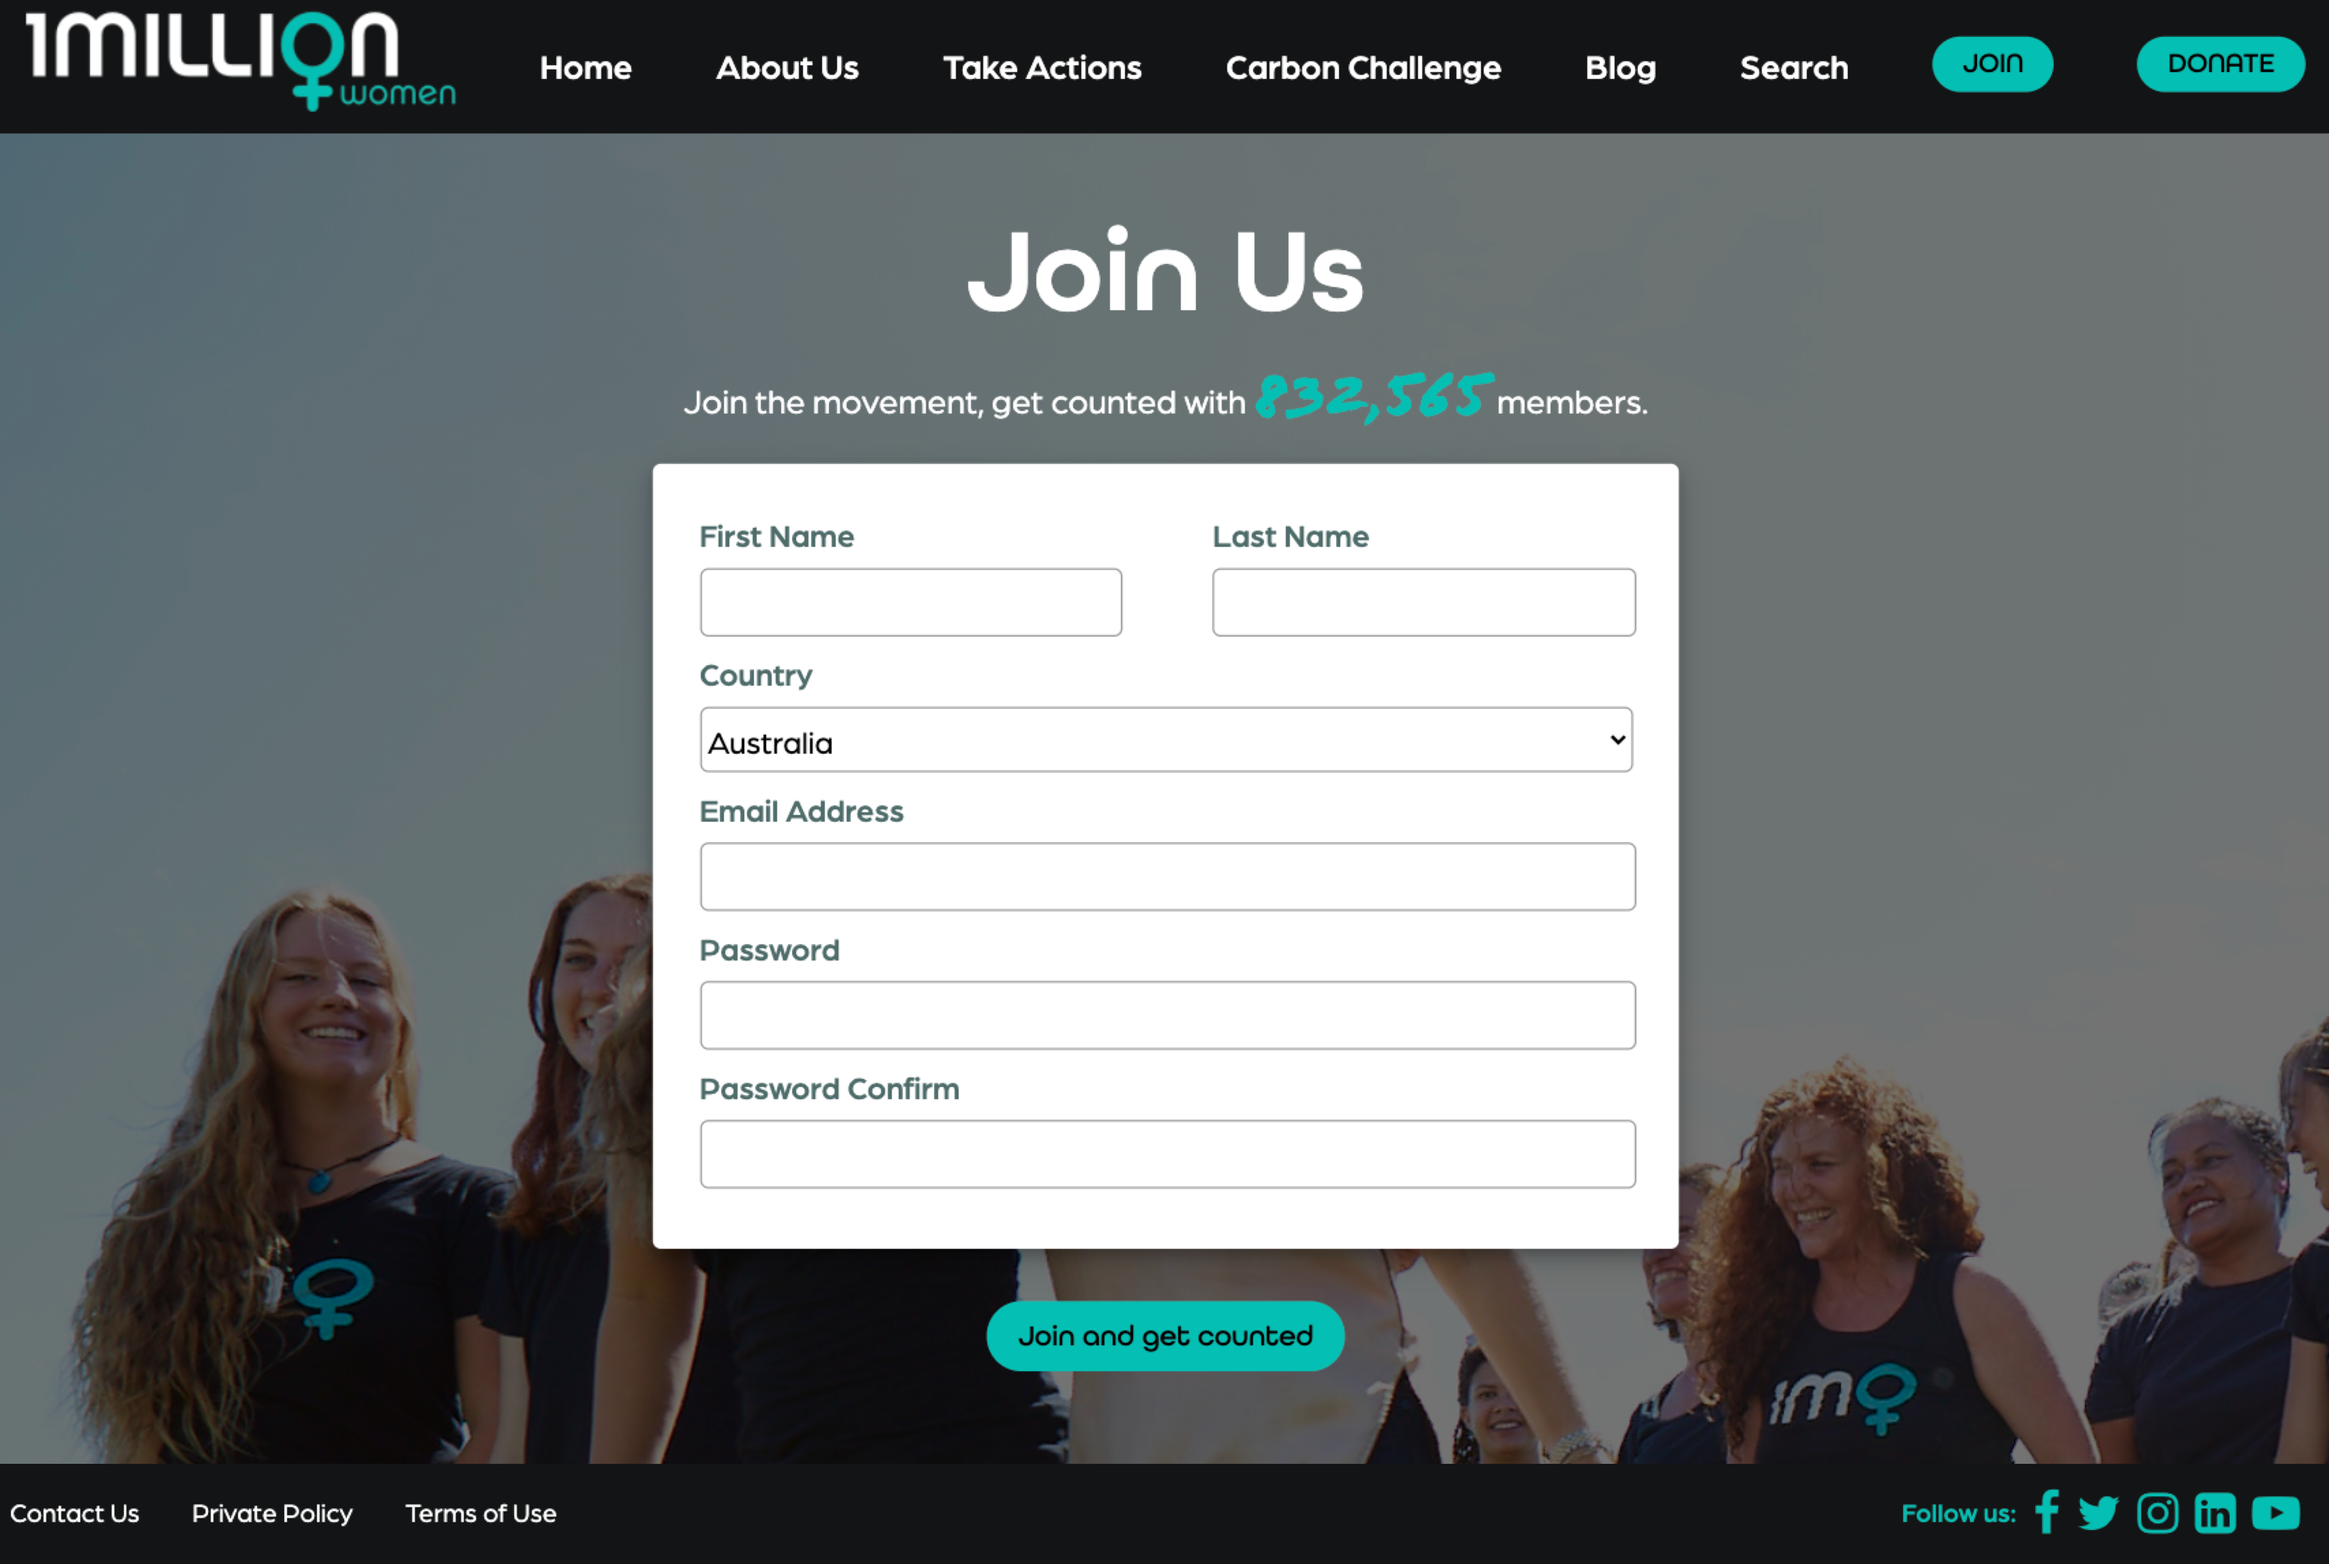
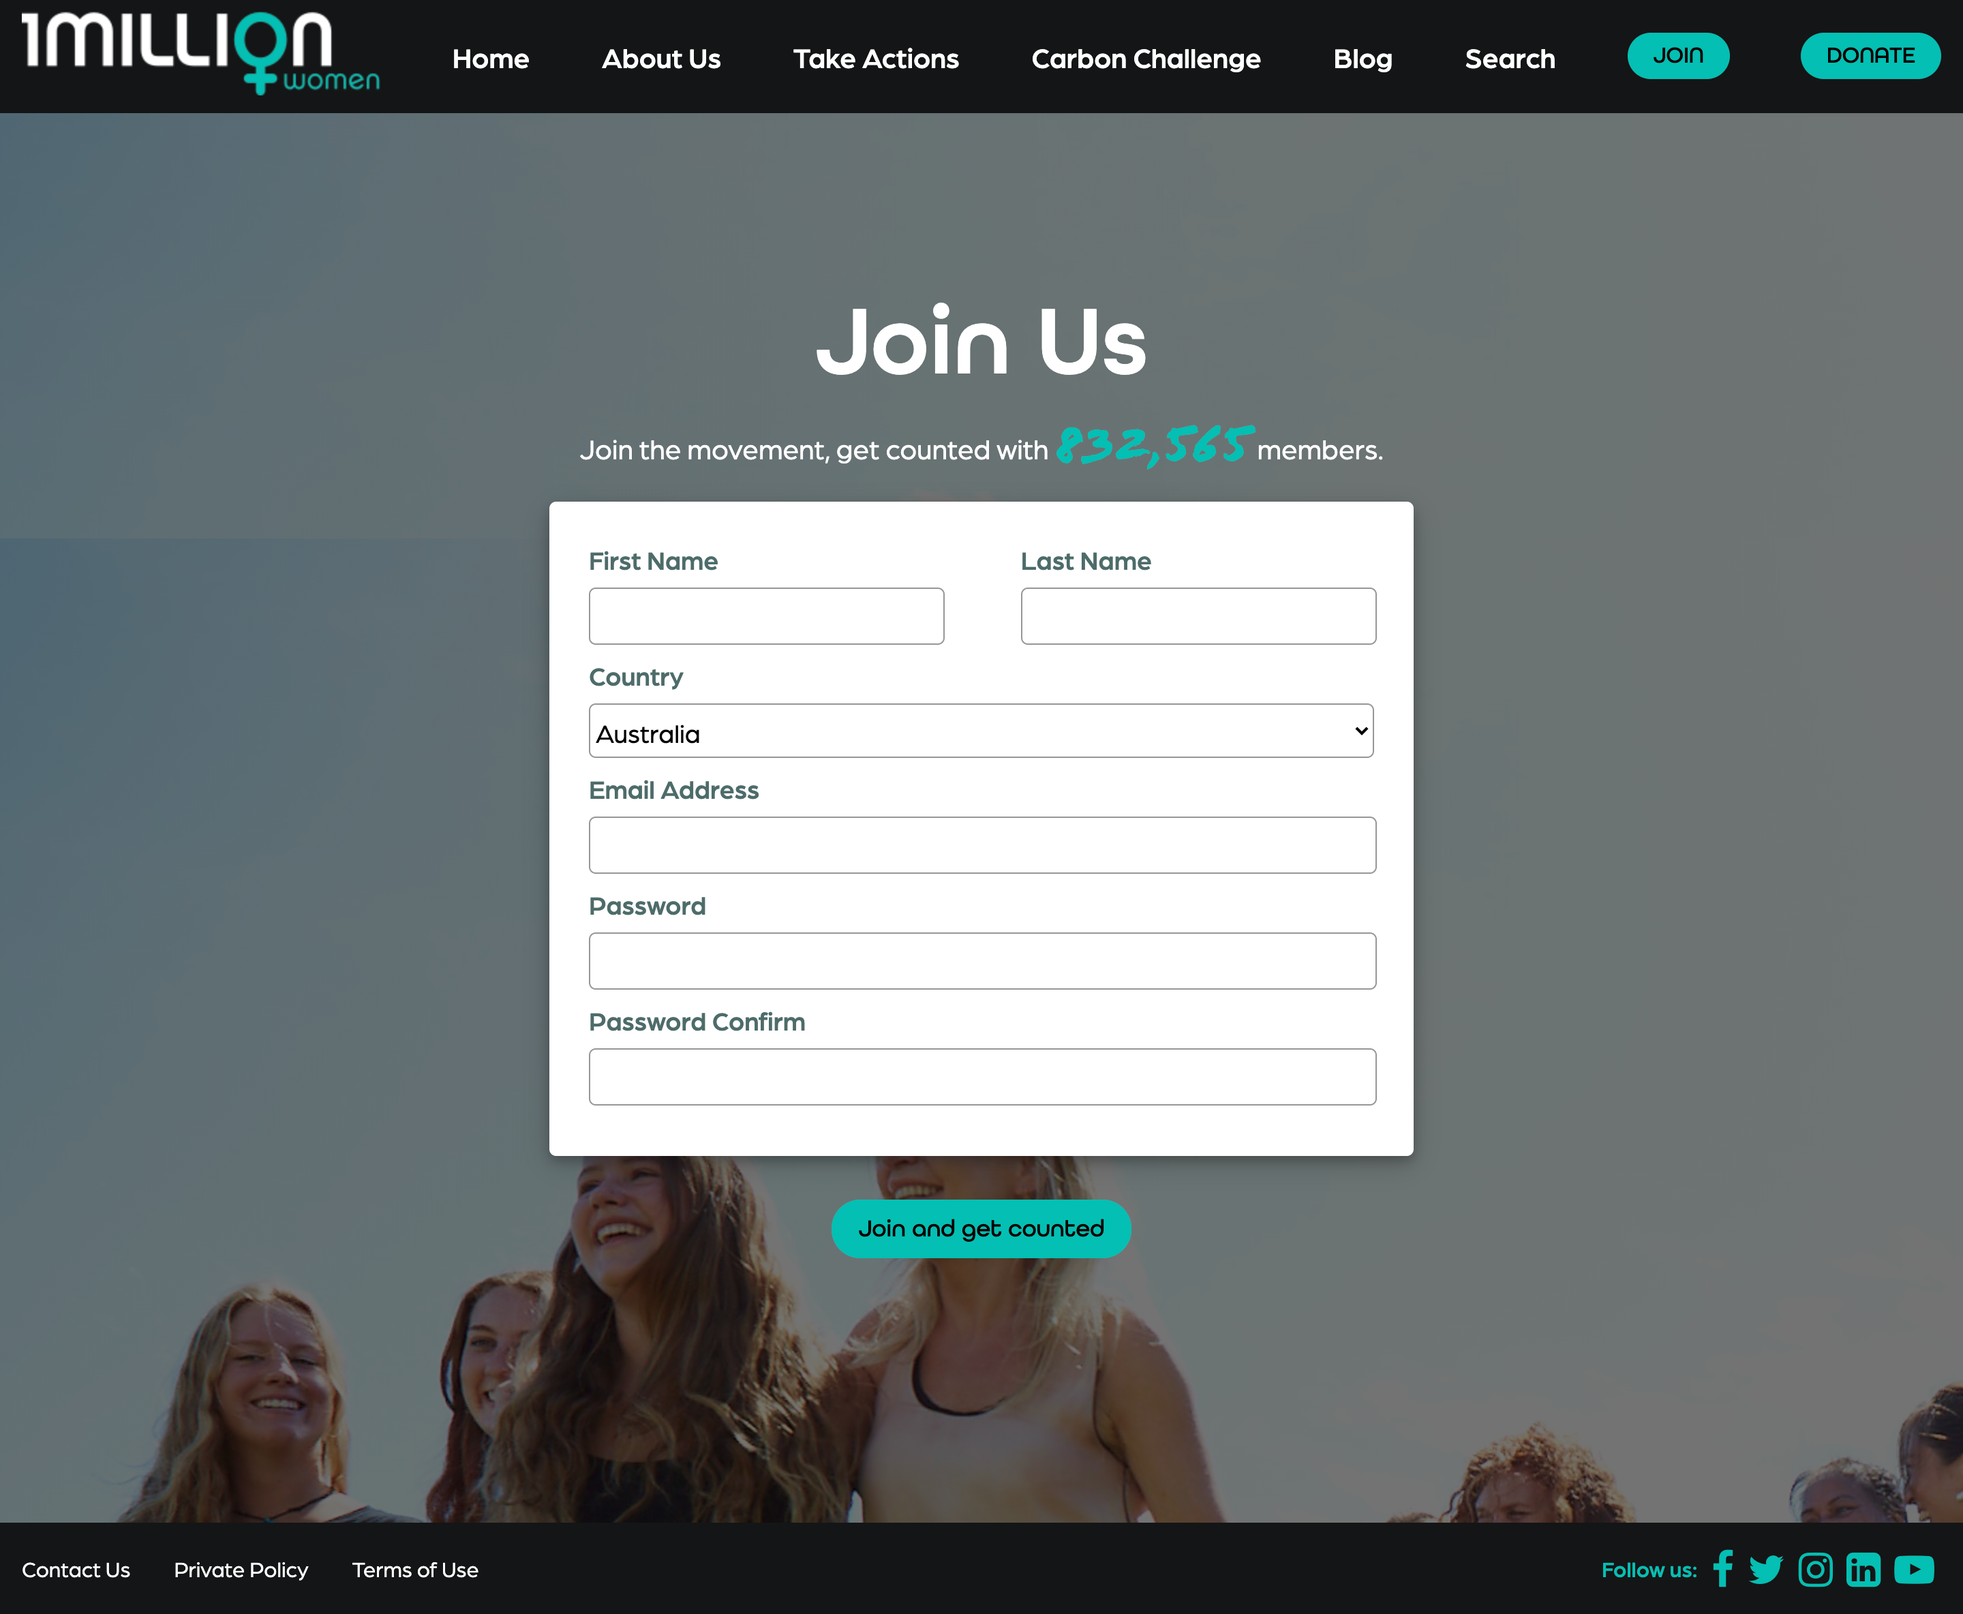
updated high-res images and mobile screenshots

Changed region(s): [[0.0, 0.4022, 1.0, 0.99], [0.0, 0.0, 1.0, 0.0928], [0.2812, 0.1547, 0.7188, 0.3712]]

diff --git a/index.html b/index.html
@@ -202,22 +202,38 @@
       <h2>5. Overall flow:</h2>
       <figure>
 				<img src="images/flow-home.png" alt="flow-home"/>
-        <figcaption>Flow: Home page</figcaption>
+        <figcaption>Flow: Home page-desktop</figcaption>
+      </figure>
+      <figure class="mobile">
+				<img src="images/flow-home-mobile.png" alt="flow-home"/>
+        <figcaption>Flow: Home page-mobile</figcaption>
       </figure>
       <p>The home page provides with 3 buttons for “Join” “Donate“ as call-to-action and “Learn” as eduction to invite users to browse the main content on the home page. The main content includes educational contents such as statistics of climate change with an interactive Climate Time machine iframe from NASA in “About Climate Change” section, a brief introduction to the organisation in “About Us” section, and further get back to the call-to-action contents of “Take Actions” and “Donating” sections.</p>
       <figure>
 				<img src="images/flow-about.png" alt="flow-about"/>
-        <figcaption>Flow: About Us page</figcaption>
+        <figcaption>Flow: About Us page-desktop</figcaption>
+      </figure>
+      <figure class="mobile">
+				<img src="images/flow-about-mobile.png" alt="flow-about"/>
+        <figcaption>Flow: About Us page-mobile</figcaption>
       </figure>
       <p>About Us page provides information about the founder, team and partners to improve the trustworthiness of 1 Million Women, therefore learning more about the values of “women power” and “climate actions “ behind the organisation and also encouraging people to join in as a member.</p>
       <figure>
 				<img src="images/flow-join.png" alt="flow-join"/>
-        <figcaption>Flow: Join page</figcaption>
+        <figcaption>Flow: Join page-desktop</figcaption>
+      </figure>
+      <figure class="mobile">
+				<img src="images/flow-join-mobile.png" alt="flow-join"/>
+        <figcaption>Flow: Join page-mobile</figcaption>
       </figure>
       <p>Join page encourages users to join using the statistics of the current member and provides a form for a simple and quickly registration including “First name”, “Last name”, “email” and “password”, as well as a dropdown menu for “country” to collect valuable information that could possibly be interesting to the organisation and stored at back-end system.</p>
       <figure>
 				<img src="images/flow-donate.png" alt="flow-donate"/>
-        <figcaption>Flow: Donate page</figcaption>
+        <figcaption>Flow: Donate page-desktop</figcaption>
+      </figure>
+      <figure class="mobile">
+				<img src="images/flow-donate-mobile.png" alt="flow-donate"/>
+        <figcaption>Flow: Donate page-mobile</figcaption>
       </figure>
       <p>Donate page provides 3 steps of donating to the organisation, the purpose of each step is highlighted in the heading and explained in the paragraphs underneath. Step1 requires the user to choose a donation plan, it could be either once-off, weekly and monthly donation with a suggested amount of money but also provides flexibilities for uses to choose a preferred plan. Step2 asks users to leave their names and contact information as records without too much obstructive content. Step3 is a payment gateway that allows users to choose a payment method and fill in the bank details for proceeding.</p>
     </section>

diff --git a/style.css b/style.css
@@ -166,7 +166,11 @@ footer {
 
 /* Content
 –––––––––––––––––––––––––––––––––––––––––––––––––– */
-
+.mobile{
+  width:35%;
+  height:auto;
+  margin:auto;
+}
 figure {
 	padding: 1em 0;
 }
@@ -253,5 +257,9 @@ blockquote {
 
 #reference a, #reference li{
   color: #919499;
+}
+
+#reference a{
+  word-wrap: break-word;
 }
 
